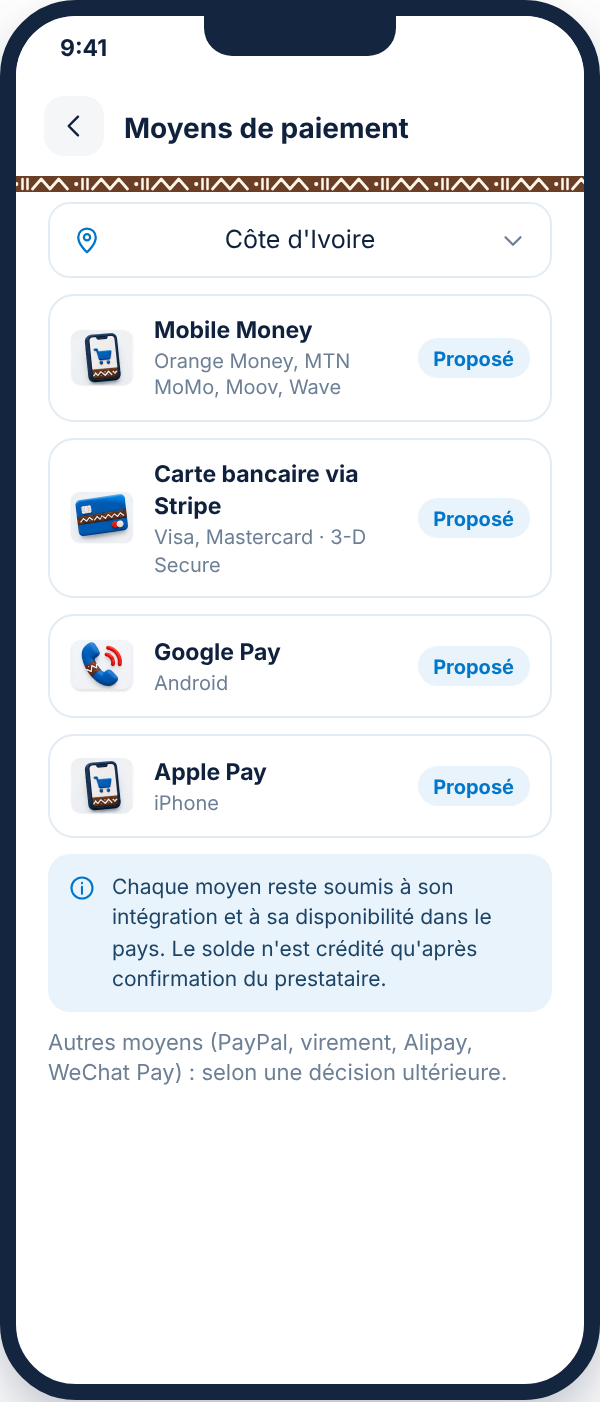
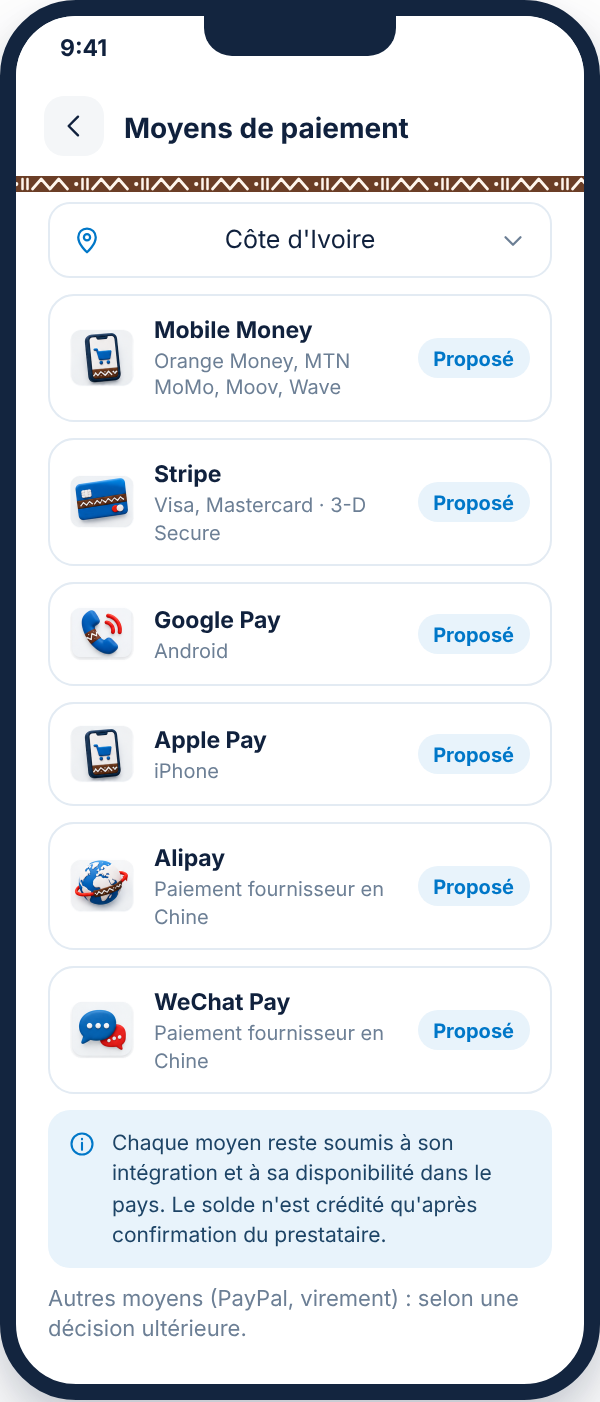
Moyens de paiement : Stripe, Alipay et WeChat Pay (D-020)
Claude-Session: https://claude.ai/code/session_01WCjjq3bcVSNbYady8VNnCS

diff --git a/design/mockups/source/visuels-template.html b/design/mockups/source/visuels-template.html
@@ -1311,11 +1311,13 @@ html,body{margin:0;background:#fff}
 <div class="ph" id="x-moyens"><div class="hd"><span class="bk"><svg><use href="#i-back"/></svg></span><h4>Moyens de paiement</h4></div><div class="pv">
   <div class="in in-sel in-ico"><svg><use href="#i-pin"/></svg>Côte d'Ivoire<svg><use href="#i-down"/></svg></div>
   <div class="pay"><div class="ic ic-xs i3d"><img src="../../icons/bogolan/png/mobile.png" alt=""></div><div><b>Mobile Money</b><small>Orange Money, MTN MoMo, Moov, Wave</small></div><span class="badge b-blue">Proposé</span></div>
-  <div class="pay"><div class="ic ic-xs i3d"><img src="../../icons/bogolan/png/card.png" alt=""></div><div><b>Carte bancaire via Stripe</b><small>Visa, Mastercard · 3-D Secure</small></div><span class="badge b-blue">Proposé</span></div>
+  <div class="pay"><div class="ic ic-xs i3d"><img src="../../icons/bogolan/png/card.png" alt=""></div><div><b>Stripe</b><small>Visa, Mastercard · 3-D Secure</small></div><span class="badge b-blue">Proposé</span></div>
   <div class="pay"><div class="ic ic-xs i3d"><img src="../../icons/bogolan/png/phone.png" alt=""></div><div><b>Google Pay</b><small>Android</small></div><span class="badge b-blue">Proposé</span></div>
   <div class="pay"><div class="ic ic-xs i3d"><img src="../../icons/bogolan/png/mobile.png" alt=""></div><div><b>Apple Pay</b><small>iPhone</small></div><span class="badge b-blue">Proposé</span></div>
+  <div class="pay"><div class="ic ic-xs i3d"><img src="../../icons/bogolan/png/globe.png" alt=""></div><div><b>Alipay</b><small>Paiement fournisseur en Chine</small></div><span class="badge b-blue">Proposé</span></div>
+  <div class="pay"><div class="ic ic-xs i3d"><img src="../../icons/bogolan/png/chat.png" alt=""></div><div><b>WeChat Pay</b><small>Paiement fournisseur en Chine</small></div><span class="badge b-blue">Proposé</span></div>
   <div class="note-s"><svg><use href="#i-info"/></svg>Chaque moyen reste soumis à son intégration et à sa disponibilité dans le pays. Le solde n'est crédité qu'après confirmation du prestataire.</div>
-  <p class="muted">Autres moyens (PayPal, virement, Alipay, WeChat Pay) : selon une décision ultérieure.</p>
+  <p class="muted">Autres moyens (PayPal, virement) : selon une décision ultérieure.</p>
 </div></div>
 
 <div class="desk" id="x-audit"><aside class="side"><div class="logo-sm"><span>SS</span> <em>DROPSHIP</em></div><small>ADMIN</small>
@@ -1386,7 +1388,7 @@ var V=[
 {n:37,t:"Mes <b>favoris</b>",p:"Gardez les produits et fournisseurs qui vous intéressent pour plus tard.",s:"x-favoris",g:"sourcing",k:3,c:[["heart",1,"Produits favoris","Retrouvés en un geste."],["store",0,"Fournisseurs favoris","Vos sources de confiance."],["cart",0,"Vers le panier","Ajout groupé."],["bell",0,"Alertes","Disponibilité et nouveautés."]]},
 {n:38,t:"Mon <b>panier</b>",p:"Le panier reste distinct de vos favoris, avec un récapitulatif complet des frais.",s:14,g:"sourcing",k:3,c:[["cart",0,"Panier séparé","Distinct de la liste de souhaits."],["plus",0,"Quantités","Modifiables à tout moment."],["file",1,"Frais visibles","Service et livraison annoncés."],["wallet",0,"Paiement rapide","En un écran."]]},
 {n:39,t:"Recharge <b>du wallet</b>",p:"Rechargez en F CFA avec les moyens disponibles dans votre pays.",s:24,g:"wallet",k:0,c:[["plus",0,"Montants rapides","10 000 à 100 000 F."],["mobile",0,"Mobile Money","Orange, MTN, Moov, Wave."],["card",0,"Carte, Google Pay, Apple Pay","Paiement par carte via Stripe."],["shield",1,"Crédit confirmé","Après validation du prestataire."]]},
-{n:40,t:"Moyens <b>de paiement</b>",p:"Mobile Money, carte via Stripe, Google Pay et Apple Pay, selon votre pays.",s:"x-moyens",g:"wallet",k:1,c:[["mobile",0,"Mobile Money","Orange, MTN, Moov, Wave."],["card",0,"Carte via Stripe","Visa et Mastercard sécurisées."],["phone",1,"Google Pay et Apple Pay","Payer en un geste."],["lock",0,"Sans stockage de carte","Données sensibles protégées."]]},
+{n:40,t:"Moyens <b>de paiement</b>",p:"Mobile Money, Stripe, Google Pay, Apple Pay, Alipay et WeChat Pay, selon votre pays.",s:"x-moyens",g:"wallet",k:1,c:[["mobile",0,"Mobile Money","Orange, MTN, Moov, Wave."],["card",0,"Stripe","Visa et Mastercard sécurisées."],["phone",1,"Google Pay et Apple Pay","Payer en un geste."],["globe",0,"Alipay et WeChat Pay","Pour payer vos fournisseurs en Chine."]]},
 {n:41,t:"Historique <b>des transactions</b>",p:"Chaque mouvement du wallet a une référence unique et un statut clair.",s:25,g:"wallet",k:3,c:[["doc",0,"Référence unique","Pour chaque opération."],["check",0,"Statut clair","Confirmé ou en attente."],["clock",1,"En attente = non crédité","Aucun solde fictif."],["download",0,"Export","Relevé téléchargeable."]]},
 {n:42,t:"Programme <b>de parrainage</b>",p:"Partagez votre code et suivez vos filleuls depuis votre compte.",s:27,g:"services",k:0,c:[["gift",1,"Code personnel","À copier ou partager."],["users",0,"Vos filleuls","Inscriptions et activité."],["star",0,"Récompenses","Selon la règle validée."],["share",0,"Partage facile","WhatsApp, SMS, réseaux."]]},
 {n:43,t:"<b>Notifications</b>",p:"Offres, paiements, colis, douane : vous êtes prévenu au bon moment.",s:28,g:"services",k:1,c:[["bell",0,"En temps réel","À chaque changement d'état."],["deal",0,"Offres reçues","Dès que l'agent répond."],["box",1,"Colis et douane","Chaque étape logistique."],["gear",0,"Personnalisables","Choisissez vos alertes."]]},

diff --git a/design/prototypes/ecrans-bogolan.html b/design/prototypes/ecrans-bogolan.html
@@ -1326,13 +1326,15 @@ html{scroll-behavior:smooth}
       <figure class="scr bgl" id="e-45"><div class="ph"><div class="hd"><span class="bk"><svg><use href="#i-back"/></svg></span><h4>Moyens de paiement</h4></div><div class="pv">
   <div class="in in-sel in-ico"><svg><use href="#i-pin"/></svg>Côte d'Ivoire<svg><use href="#i-down"/></svg></div>
   <div class="pay"><div class="ic ic-xs i3d"><img src="../icons/bogolan/png/mobile.png" alt=""></div><div><b>Mobile Money</b><small>Orange Money, MTN MoMo, Moov, Wave</small></div><span class="badge b-blue">Proposé</span></div>
-  <div class="pay"><div class="ic ic-xs i3d"><img src="../icons/bogolan/png/card.png" alt=""></div><div><b>Carte bancaire via Stripe</b><small>Visa, Mastercard · 3-D Secure</small></div><span class="badge b-blue">Proposé</span></div>
+  <div class="pay"><div class="ic ic-xs i3d"><img src="../icons/bogolan/png/card.png" alt=""></div><div><b>Stripe</b><small>Visa, Mastercard · 3-D Secure</small></div><span class="badge b-blue">Proposé</span></div>
   <div class="pay"><div class="ic ic-xs i3d"><img src="../icons/bogolan/png/phone.png" alt=""></div><div><b>Google Pay</b><small>Android</small></div><span class="badge b-blue">Proposé</span></div>
   <div class="pay"><div class="ic ic-xs i3d"><img src="../icons/bogolan/png/mobile.png" alt=""></div><div><b>Apple Pay</b><small>iPhone</small></div><span class="badge b-blue">Proposé</span></div>
+  <div class="pay"><div class="ic ic-xs i3d"><img src="../icons/bogolan/png/globe.png" alt=""></div><div><b>Alipay</b><small>Paiement fournisseur en Chine</small></div><span class="badge b-blue">Proposé</span></div>
+  <div class="pay"><div class="ic ic-xs i3d"><img src="../icons/bogolan/png/chat.png" alt=""></div><div><b>WeChat Pay</b><small>Paiement fournisseur en Chine</small></div><span class="badge b-blue">Proposé</span></div>
   <div class="note-s"><svg><use href="#i-info"/></svg>Chaque moyen reste soumis à son intégration et à sa disponibilité dans le pays. Le solde n'est crédité qu'après confirmation du prestataire.</div>
-  <p class="muted">Autres moyens (PayPal, virement, Alipay, WeChat Pay) : selon une décision ultérieure.</p>
+  <p class="muted">Autres moyens (PayPal, virement) : selon une décision ultérieure.</p>
 </div></div>
-      <figcaption><span class="num">45</span><b>Moyens de paiement</b><small>Étape 40 des visuels. Mobile Money, carte via Stripe, Google Pay, Apple Pay (D-019).</small></figcaption></figure>
+      <figcaption><span class="num">45</span><b>Moyens de paiement</b><small>Étape 40 des visuels. Mobile Money, Stripe, Google Pay, Apple Pay, Alipay, WeChat Pay.</small></figcaption></figure>
     </div>
     <div class="gallery wide" style="margin-top:28px">
       <figure class="scr bgl" id="e-46"><div class="desk"><aside class="side"><div class="logo-sm"><span>SS</span> <em>DROPSHIP</em></div><small>ADMIN</small>

diff --git a/design/mockups/INVENTAIRE_VISUELS.md b/design/mockups/INVENTAIRE_VISUELS.md
@@ -51,7 +51,7 @@
 | 37 | Mes favoris | Proposition éditoriale non validée | [SS-DROPSHIP_Visuel_37_Mes_favoris_1080x1920.png](exports/SS-DROPSHIP_Visuel_37_Mes_favoris_1080x1920.png) | 574 Ko | À valider |
 | 38 | Mon panier | Proposition éditoriale non validée | [SS-DROPSHIP_Visuel_38_Mon_panier_1080x1920.png](exports/SS-DROPSHIP_Visuel_38_Mon_panier_1080x1920.png) | 579 Ko | À valider |
 | 39 | Recharge du wallet | Proposition éditoriale non validée | [SS-DROPSHIP_Visuel_39_Recharge_du_wallet_1080x1920.png](exports/SS-DROPSHIP_Visuel_39_Recharge_du_wallet_1080x1920.png) | 606 Ko | À valider |
-| 40 | Moyens de paiement | Proposition éditoriale non validée | [SS-DROPSHIP_Visuel_40_Moyens_de_paiement_1080x1920.png](exports/SS-DROPSHIP_Visuel_40_Moyens_de_paiement_1080x1920.png) | 580 Ko | À valider |
+| 40 | Moyens de paiement | Proposition éditoriale non validée | [SS-DROPSHIP_Visuel_40_Moyens_de_paiement_1080x1920.png](exports/SS-DROPSHIP_Visuel_40_Moyens_de_paiement_1080x1920.png) | 608 Ko | À valider |
 | 41 | Historique des transactions | Proposition éditoriale non validée | [SS-DROPSHIP_Visuel_41_Historique_des_transactions_1080x1920.png](exports/SS-DROPSHIP_Visuel_41_Historique_des_transactions_1080x1920.png) | 583 Ko | À valider |
 | 42 | Programme de parrainage | Proposition éditoriale non validée | [SS-DROPSHIP_Visuel_42_Programme_de_parrainage_1080x1920.png](exports/SS-DROPSHIP_Visuel_42_Programme_de_parrainage_1080x1920.png) | 604 Ko | À valider |
 | 43 | Notifications | Proposition éditoriale non validée | [SS-DROPSHIP_Visuel_43_Notifications_1080x1920.png](exports/SS-DROPSHIP_Visuel_43_Notifications_1080x1920.png) | 564 Ko | À valider |

diff --git a/docs/decisions/REGISTRE_DECISIONS.md b/docs/decisions/REGISTRE_DECISIONS.md
@@ -24,6 +24,7 @@ Dernière consolidation : 17/11/2026.
 | D-017 | Ne pas générer les visuels en lot; procéder un par un | Production visuelle |
 | D-018 | Icônes 3D dans le style « Collection Bogolan » : objets en bleu, rouge, blanc, bleu nuit, avec une bande bogolan brun terre (#6B3E26); toujours aucun jaune (choix du propriétaire, 17/11/2026) | `design/icons/bogolan/`; le brun est réservé au motif bogolan et aux cartons, jamais en couleur de marque |
 | D-019 | Moyens de recharge à proposer : Mobile Money, Google Pay, Apple Pay, carte bancaire via Stripe (demande du propriétaire, 17/11/2026) | Écran « Recharger » de la maquette ; chaque moyen reste soumis à son intégration et à sa disponibilité dans le pays (aucun crédit sans confirmation, D-008) |
+| D-020 | Moyens de paiement affichés : Mobile Money, Stripe (libellé simplifié), Google Pay, Apple Pay, **Alipay et WeChat Pay** (demande du propriétaire, commentaire sur la maquette, 18/11/2026) | Écran 45 et visuel 40 ; mêmes réserves que D-019 : intégration et disponibilité par pays, aucun crédit sans confirmation (D-008) |
 
 ## À confirmer
 - M-001 : modèle économique final (abonnement, commissions, publicité, combinaison).

diff --git a/CHANGELOG.md b/CHANGELOG.md
@@ -72,3 +72,6 @@
 ## 2026-11-18 — Frise bogolan sur toutes les pages et tous les visuels
 - La frise bogolan s'applique désormais aux 46 écrans et aux 50 visuels (et non plus seulement aux étapes 28 à 50) ; espacement sous les en-têtes resserré.
 - Nouveau dossier `design/mockups/ecrans/` : les 46 écrans exportés en PNG, avec un index.
+
+## 2026-11-18 — Moyens de paiement : Stripe, Alipay, WeChat Pay (D-020)
+- Écran 45 et visuel 40 : « Carte bancaire via Stripe » devient « Stripe » ; ajout d'Alipay et de WeChat Pay (demande faite en commentaire sur la maquette).
